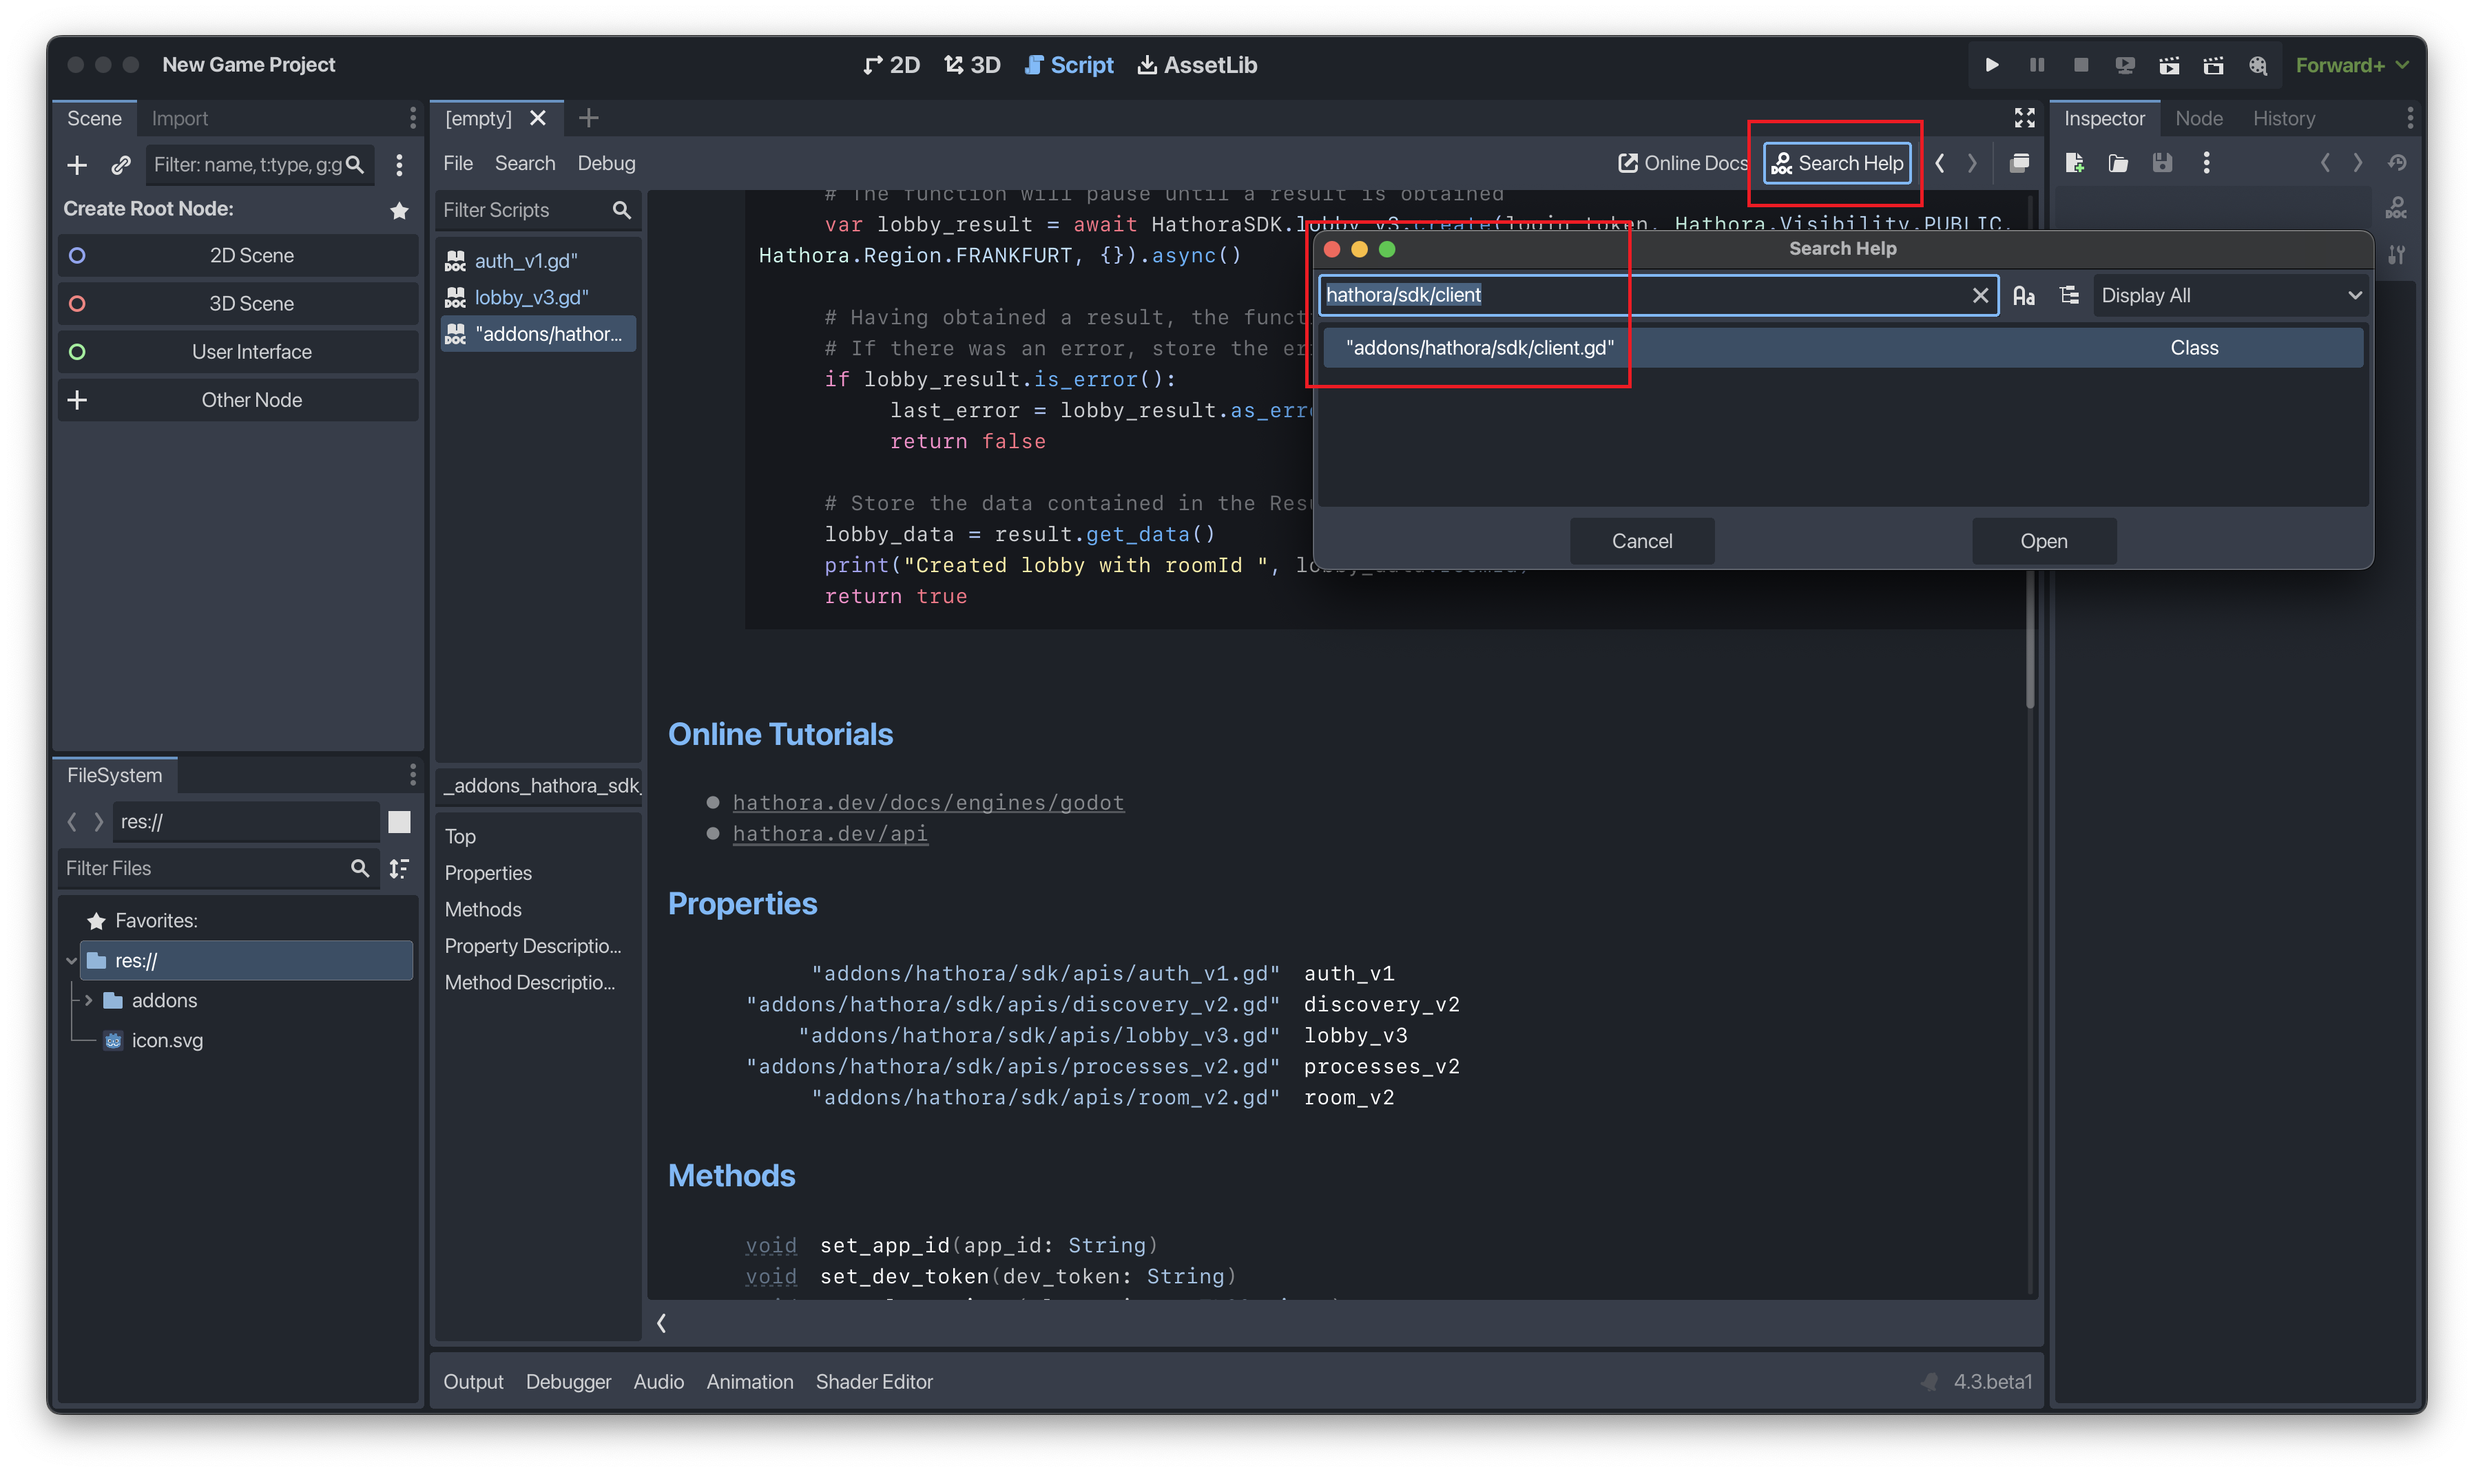
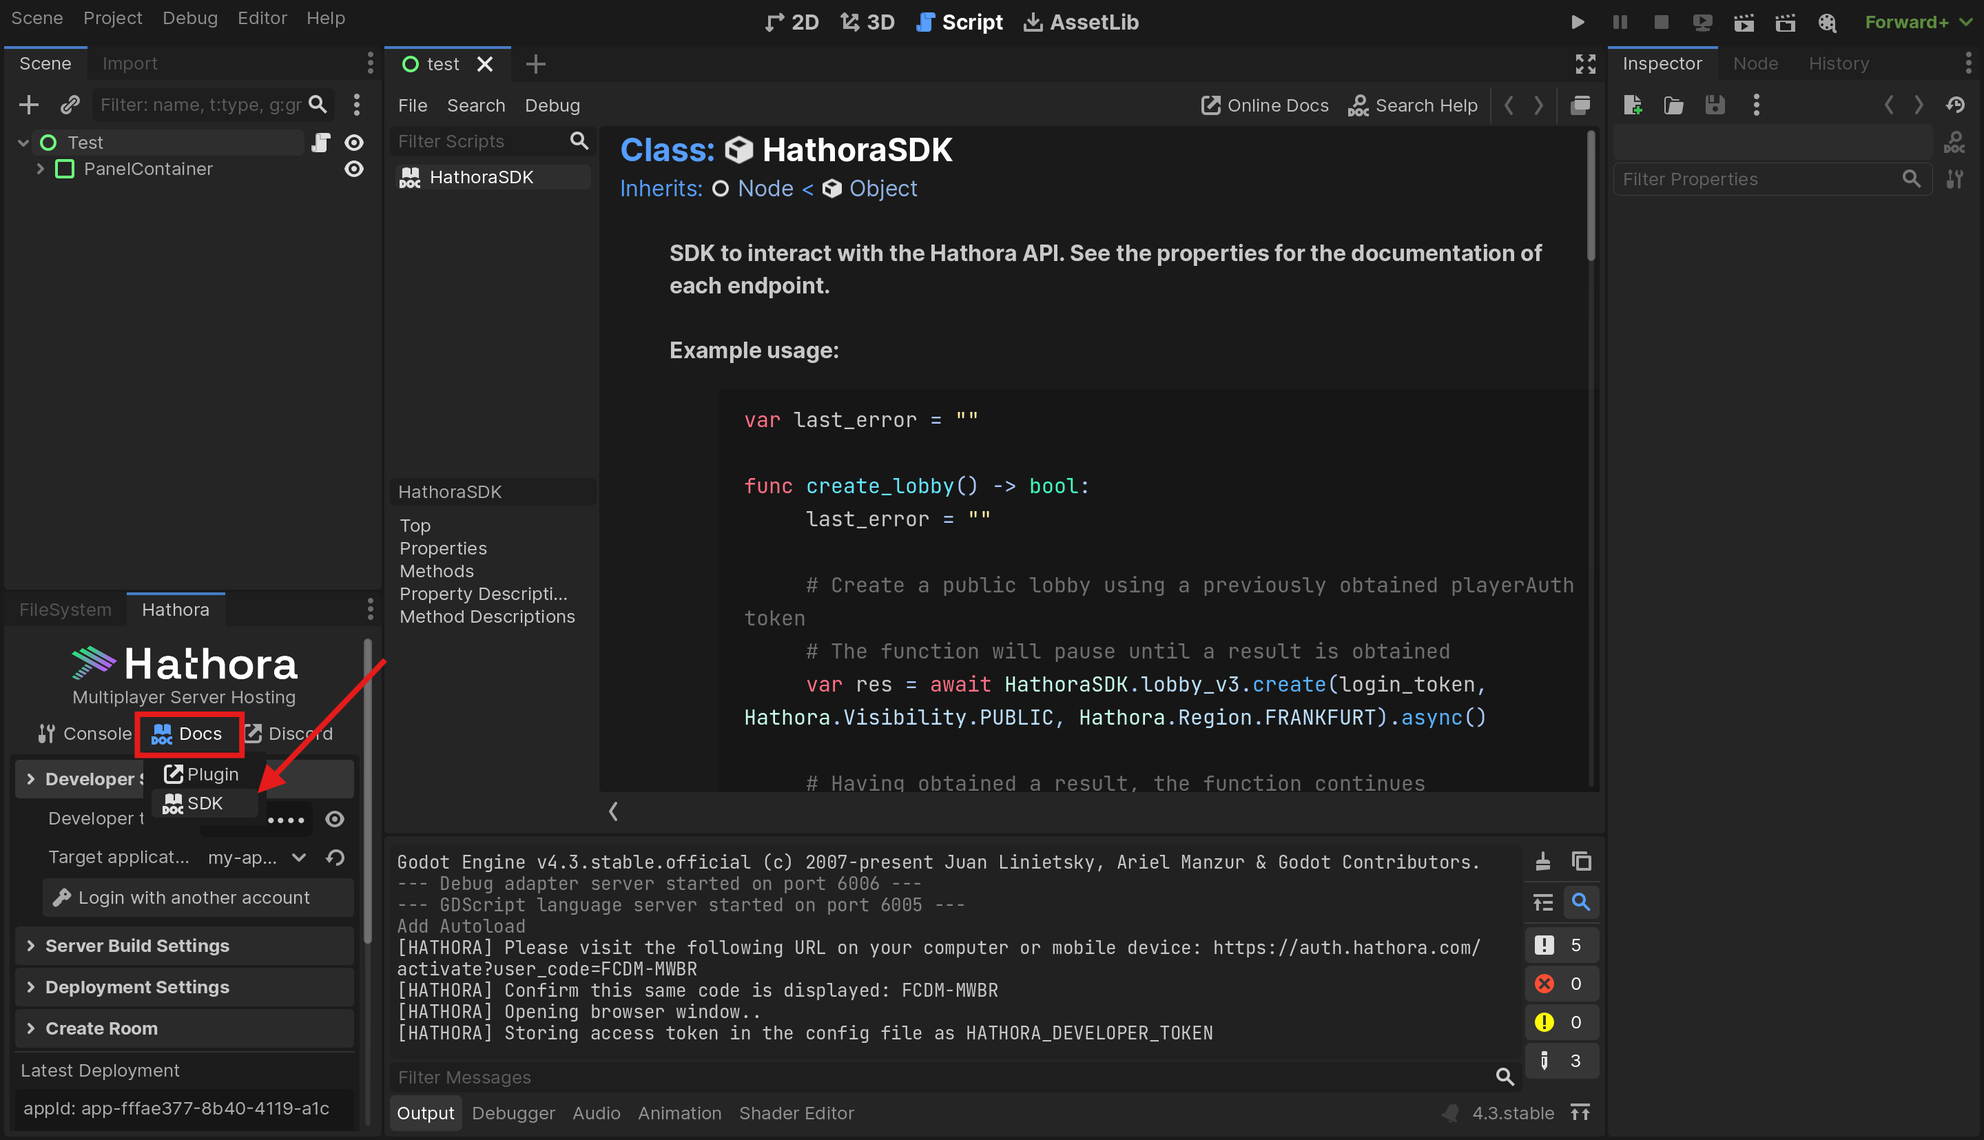
Updated instructions to access SDK docs

diff --git a/README.md b/README.md
@@ -13,6 +13,7 @@ This README covers:
 * [Configuration](#configuration)
 * [Calling API endpoints](#calling-api-endpoints)
 * [SDK Example usage](#sdk-example-usage)
+* [SDK Documentation](#sdk-documentation)
 * [Exporting for the Web](#exporting-for-the-web)
 * [Community demos](#community-demos)
 * [Questions?](#questions)
@@ -112,19 +113,15 @@ The SDK includes a HathoraSDK autoload, with the following functions:
 * discovery_v2
 	* get_ping_service_endpoints
 
-Documentation for the SDK endpoints is available inside the Godot editor. Press **Search Help** and search `hathora/sdk/client`.
+For more information, see the [SDK Documentation](#sdk-documentation) and the [Hathora API documentation](http://hathora.dev/api).
 
-<img src="images/sdk_documentation.png"/>
-
-
-For more information, see the [Hathora API documentation](http://hathora.dev/api).
 ## Configuration
 Configuration is saved in two locations: the appId is in the Godot project settings, and the devToken is in the config file `<project-root>/.hathora/config` or at `<project-root>/hathora_config`.
+
 ### Specifying an appId
 The SDK uses the appId specified under `Project Settings > Hathora > App Id`. When you select a target application in the plugin, its appId is automatically applied to the project settings. Alternatively, you can specify an appId by calling `HathoraSDK.set_app_id(app_id)`.
 
 ### Specifying a devToken
-
 > [!WARNING]
 > The devToken gives privileged access to your Hathora account. Never include the devToken in client builds or in your versioning system.
 
@@ -207,6 +204,10 @@ func join_room_id(room_id: String) -> void:
 	await multiplayer.connected_to_server
 	print("Connected!")
 ```
+## SDK Documentation
+Documentation for the SDK endpoints is available inside the Godot editor. Press **Search Help** and search `hathora/sdk/client`. Due to [this Godot issue](https://github.com/godotengine/godot/issues/72406), the documentation might not show up in the search menu. As a workaround, access it through the dedicated button in the Hathora plugin. This button is only available in Godot 4.3 and above.
+<img src="images/sdk_documentation.png"/>.
+
 ## Exporting for the Web
 HTTPS pages like itch.io require a secure protocol. When creating a multiplayer peer, use [WebSocketMultiplayerPeer](https://docs.godotengine.org/en/stable/classes/class_websocketmultiplayerpeer.html). In the Hathora deployment settings, set the transport type to TLS.
 ```gdscript
@@ -220,17 +221,15 @@ func create_client(host: String, port: int) -> void:
 ```
 ## Community demos
 - Demo Godot Hathora by Arkelen ([itch.io](https://arkelen.itch.io/demo-godot-hathora), [source code on GitLab](https://gitlab.com/arkelen/demo-web-godot-hathora)). Shows lobby create and join, and ping calculation using the discovery_v2 endpoint.
-## Questions?
 
+## Questions?
 Get help and ask questions in our active Discord community:
 [https://discord.com/invite/hathora](https://discord.com/invite/hathora)
 
 ## Version compatibility
-
 This addon is compatible with Godot 4.2+
 
 ## Credits
-
 **Davide Di Staso** (Lead developer - Godot plugin & SDK)
 
 **Justin Chu**
